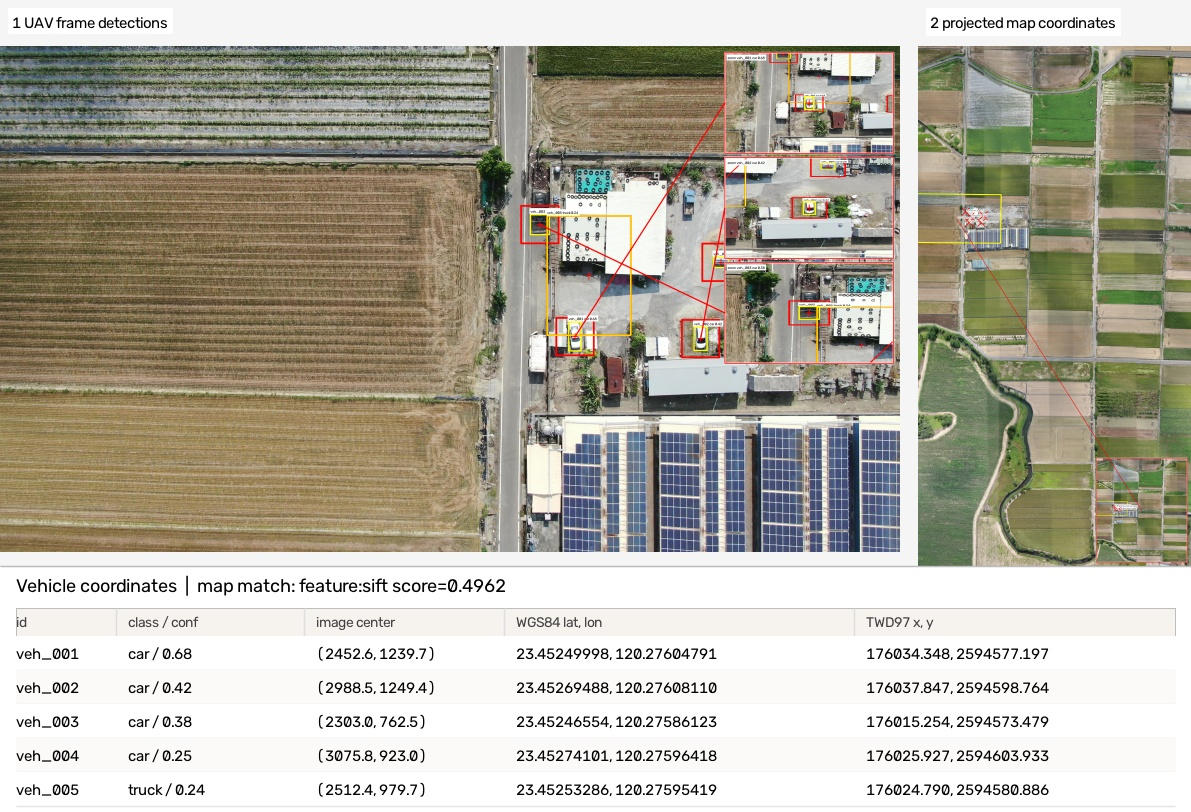
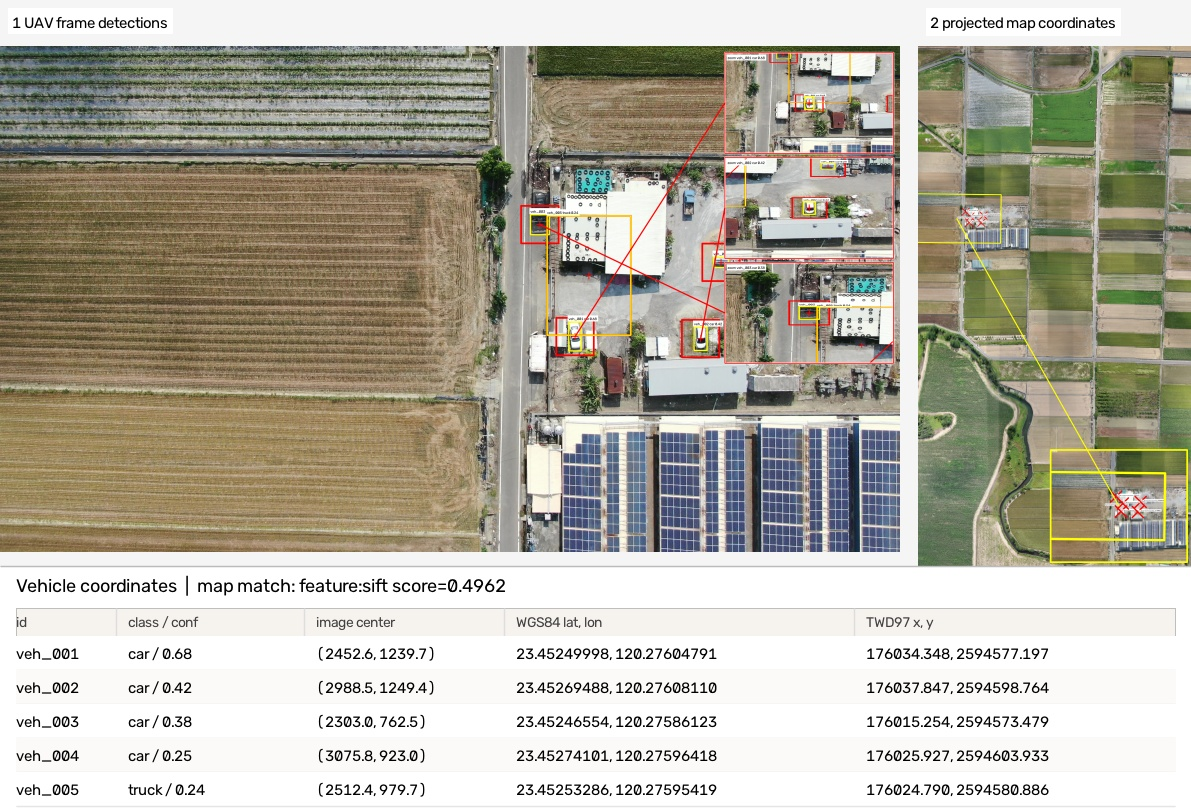
Refine map localization zoom output

diff --git a/scripts/localize_vehicles.py b/scripts/localize_vehicles.py
@@ -490,9 +490,11 @@ def draw_map_overlay(
     localized_detections: list[dict[str, Any]],
 ) -> np.ndarray:
     output = map_image.copy()
+    highlight_color = (0, 255, 255)
+    vehicle_color = (0, 0, 255)
     corners = np.array(match_result["corners"], dtype=np.int32).reshape(-1, 1, 2)
     match_line_thickness = max(3, round(min(map_image.shape[:2]) / 320))
-    cv2.polylines(output, [corners], True, (0, 255, 255), match_line_thickness, cv2.LINE_AA)
+    cv2.polylines(output, [corners], True, highlight_color, match_line_thickness, cv2.LINE_AA)
 
     for item in localized_detections:
         if item.get("map_pixel") is None:
@@ -505,7 +507,7 @@ def draw_map_overlay(
         cv2.drawMarker(
             output,
             (x, y),
-            (0, 0, 255),
+            vehicle_color,
             cv2.MARKER_TILTED_CROSS,
             marker_size,
             marker_thickness,
@@ -537,23 +539,23 @@ def draw_map_focus_inset(
     match_result: dict[str, Any],
     localized_detections: list[dict[str, Any]],
 ) -> None:
-    focus_points = [tuple(point) for point in match_result["corners"]]
-    for item in localized_detections:
-        if item.get("map_pixel") is None:
-            continue
-        pixel = item["map_pixel"]
-        focus_points.append((float(pixel["x"]), float(pixel["y"])))
-    if not focus_points:
+    highlight_color = (0, 255, 255)
+    vehicle_color = (0, 0, 255)
+    match_points = [tuple(point) for point in match_result["corners"]]
+    if not match_points:
         return
 
-    crop_box = focus_crop_box(focus_points, output.shape[1], output.shape[0])
+    crop_box = focus_crop_box(match_points, output.shape[1], output.shape[0])
     x1, y1, x2, y2 = crop_box
     crop = output[y1:y2, x1:x2].copy()
     if crop.size == 0:
         return
 
-    inset_width = min(max(520, output.shape[1] // 3), max(1, output.shape[1] - 48))
-    inset_height = min(max(320, output.shape[0] // 5), max(1, output.shape[0] - 48))
+    max_inset_width = min(max(760, output.shape[1] // 2), max(1, output.shape[1] - 48))
+    max_inset_height = min(max(460, output.shape[0] // 3), max(1, output.shape[0] - 48))
+    inset_scale = min(max_inset_width / crop.shape[1], max_inset_height / crop.shape[0])
+    inset_width = max(1, int(round(crop.shape[1] * inset_scale)))
+    inset_height = max(1, int(round(crop.shape[0] * inset_scale)))
     resized = cv2.resize(crop, (inset_width, inset_height), interpolation=cv2.INTER_CUBIC)
     scale_x = inset_width / max(1, x2 - x1)
     scale_y = inset_height / max(1, y2 - y1)
@@ -563,8 +565,8 @@ def draw_map_focus_inset(
         resized,
         [np.array(inset_corners, dtype=np.int32).reshape(-1, 1, 2)],
         True,
-        (0, 255, 255),
-        5,
+        highlight_color,
+        max(8, round(min(inset_width, inset_height) / 52)),
         cv2.LINE_AA,
     )
     for item in localized_detections:
@@ -576,10 +578,10 @@ def draw_map_focus_inset(
         cv2.drawMarker(
             resized,
             (local_x, local_y),
-            (0, 0, 255),
+            vehicle_color,
             cv2.MARKER_TILTED_CROSS,
-            40,
-            4,
+            max(44, round(min(inset_width, inset_height) / 10)),
+            max(6, round(min(inset_width, inset_height) / 90)),
             cv2.LINE_AA,
         )
         gps = item.get("gps")
@@ -593,21 +595,14 @@ def draw_map_focus_inset(
             )
 
     draw_label(resized, "match zoom", (12, 28), (0, 0, 0), (255, 255, 255))
-    target_x, target_y = inset_position(output.shape[1], output.shape[0], focus_points, inset_width, inset_height)
+    target_x, target_y = inset_position(output.shape[1], output.shape[0], match_points, inset_width, inset_height)
     output[target_y : target_y + inset_height, target_x : target_x + inset_width] = resized
     cv2.rectangle(
         output,
         (target_x, target_y),
         (target_x + inset_width, target_y + inset_height),
-        (255, 255, 255),
-        max(4, round(min(output.shape[:2]) / 360)),
-    )
-    cv2.rectangle(
-        output,
-        (target_x, target_y),
-        (target_x + inset_width, target_y + inset_height),
-        (0, 0, 255),
-        max(2, round(min(output.shape[:2]) / 700)),
+        highlight_color,
+        max(10, round(min(output.shape[:2]) / 180)),
         cv2.LINE_AA,
     )
 
@@ -617,8 +612,8 @@ def draw_map_focus_inset(
         output,
         (int(round(center_x)), int(round(center_y))),
         inset_anchor,
-        (0, 0, 255),
-        max(2, round(min(output.shape[:2]) / 700)),
+        highlight_color,
+        max(6, round(min(output.shape[:2]) / 260)),
         cv2.LINE_AA,
     )
 
@@ -632,7 +627,7 @@ def focus_crop_box(
     ys = [point[1] for point in points]
     width = max(xs) - min(xs)
     height = max(ys) - min(ys)
-    pad = max(160.0, width * 1.8, height * 1.8)
+    pad = max(18.0, width * 0.18, height * 0.18)
     x1 = int(clamp(min(xs) - pad, 0, image_width - 1))
     y1 = int(clamp(min(ys) - pad, 0, image_height - 1))
     x2 = int(clamp(max(xs) + pad, x1 + 1, image_width))

diff --git a/MODIFICATION_LOG.md b/MODIFICATION_LOG.md
@@ -3,6 +3,12 @@
 ## 2026-07-03
 
 - 分支：`main`
+- 變更摘要：調整地圖投影輸出的局部放大視覺化，放大圖只框選匹配區域、保留單一加粗黃色外框與黃色連線，車輛位置 X 改為紅色；重新產生 frame 51 與 frame 161 的地圖座標與流程總覽範例圖。
+- 影響範圍：`scripts/localize_vehicles.py`、`vehicle_localization_outputs/frame_000051/`、`vehicle_localization_outputs/frame_000161/`、`.gitignore`、`MODIFICATION_LOG.md`
+
+## 2026-07-03
+
+- 分支：`main`
 - 變更摘要：新增四點 GPS affine 底圖建立工具與 localize-ready 壓縮 UAV 底圖資料夾，將車輛定位預設底圖改為壓縮 UAV georeferenced basemap；影像匹配預設改為降採樣 SIFT/ORB + RANSAC feature matching，失敗時 fallback template matching，並改善地圖投影視覺化的框線與局部放大顯示；使用新預設重新產生 frame 51 與 frame 161 demo 輸出。
 - 影響範圍：`scripts/create_georeferenced_basemap.py`、`scripts/georeference_map.py`、`scripts/localize_vehicles.py`、`scripts/adjust_strip_mosaic_gui.py`、`scripts/crop_image_roi.py`、`scripts/stitch_vertical_strip.py`、`georeferenced_maps/localize_ready_selected_roi/`、`vehicle_localization_outputs/frame_000051/`、`vehicle_localization_outputs/frame_000161/`、`.gitignore`、`README.md`、`MODIFICATION_LOG.md`
 